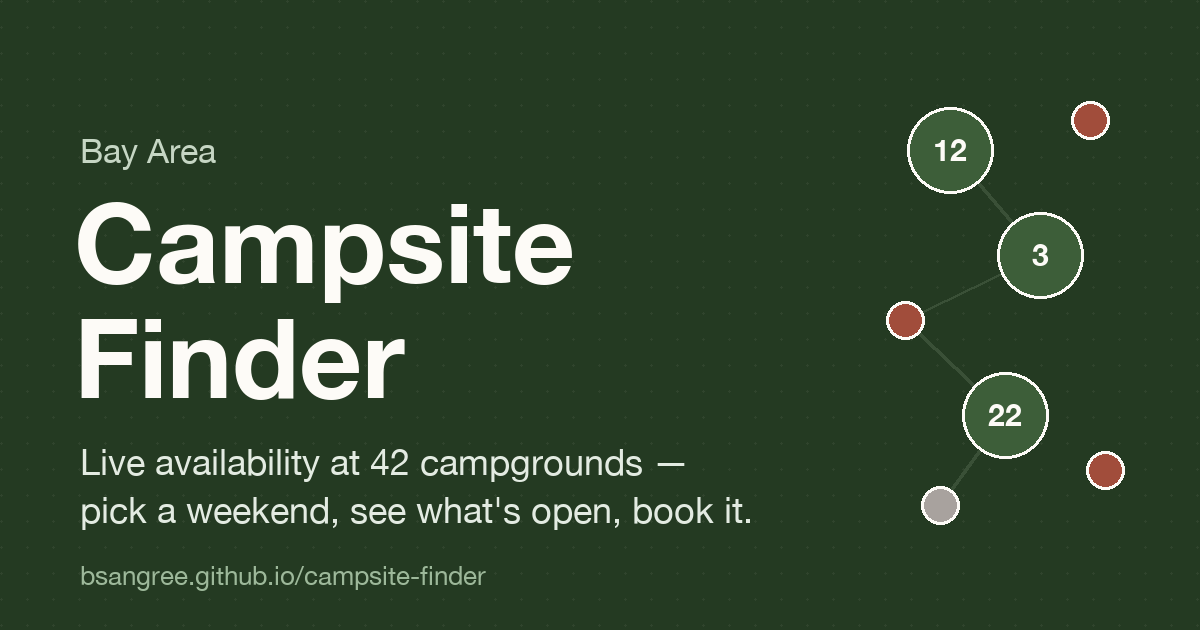
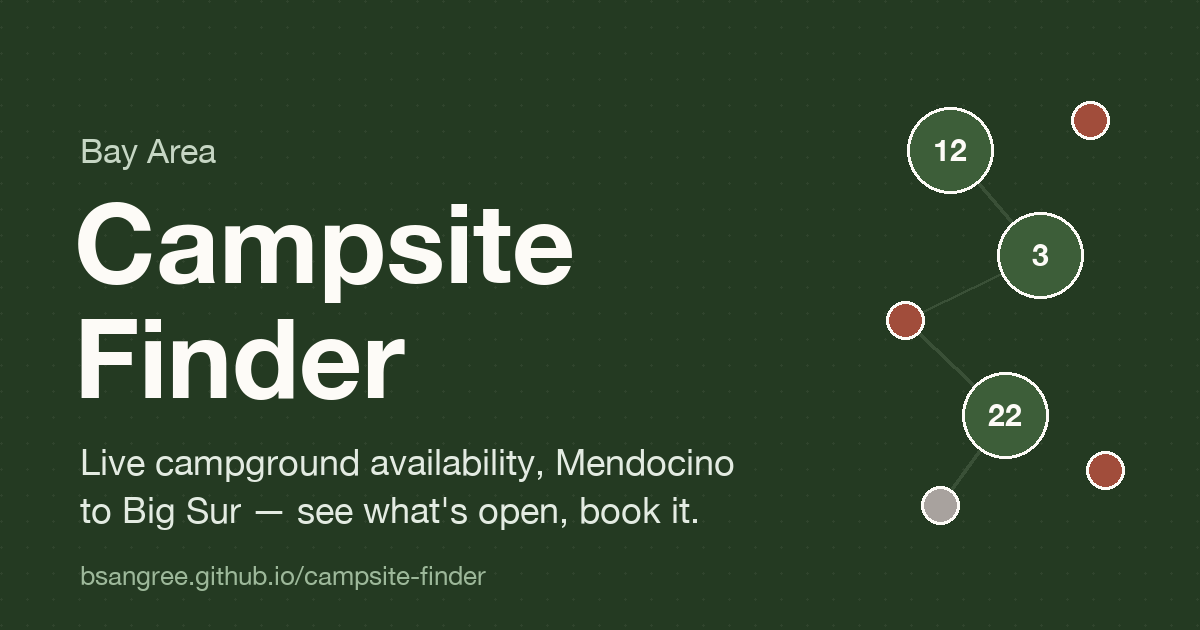
Add 5 campgrounds (Uvas Canyon, Hendy Woods, Van Damme, Russian Gulch, MacKerricher) + weather in map popups
- 47 parks total, 38 with live availability
- Popups show arrival-day forecast via Open-Meteo (free, CORS-open, no key):
  'Partly sunny · 72°/54° · 30% rain', lazy-fetched on popup open, cached
- Recorder updated in the same commit this time (34→38 tracked)
- Evergreen social card + copy (no baked-in park count)

Changed region(s): [[0.0617, 0.6937, 0.6167, 0.8444]]

diff --git a/index.html b/index.html
@@ -4,9 +4,9 @@
   <meta charset="utf-8" />
   <meta name="viewport" content="width=device-width, initial-scale=1" />
   <title>Bay Area Campsite Finder</title>
-  <meta name="description" content="Live availability at 42 campgrounds around the Bay Area and Big Sur — pick a weekend, see what's open, book it." />
+  <meta name="description" content="Live availability at 45+ campgrounds from Mendocino to Big Sur — pick a weekend, see what's open, book it." />
   <meta property="og:title" content="Bay Area Campsite Finder" />
-  <meta property="og:description" content="Live availability at 42 campgrounds around the Bay Area and Big Sur — pick a weekend, see what's open, book it." />
+  <meta property="og:description" content="Live availability at 45+ campgrounds from Mendocino to Big Sur — pick a weekend, see what's open, book it." />
   <meta property="og:image" content="https://bsangree.github.io/campsite-finder/social-card.png" />
   <meta property="og:url" content="https://bsangree.github.io/campsite-finder/" />
   <meta property="og:type" content="website" />
@@ -50,7 +50,7 @@
       <div>
         <div class="text-forest-200 text-[13px] mb-0.5">Bay Area</div>
         <h1 class="text-3xl sm:text-5xl font-semibold tracking-tight">Campsite Finder</h1>
-        <p class="hidden sm:block text-forest-100 mt-2 max-w-xl">Live availability across 30+ campgrounds — state parks, national parks, GGNRA. Pick a weekend, see what's open, book it.</p>
+        <p class="hidden sm:block text-forest-100 mt-2 max-w-xl">Live availability across 45+ campgrounds, Mendocino to Big Sur. Pick a weekend, see what's open, book it.</p>
       </div>
       <div id="headerStats" class="text-right shrink-0"></div>
     </div>
@@ -115,7 +115,7 @@
             <option value="60">≤ 1 hr</option>
             <option value="90">≤ 1.5 hr</option>
             <option value="120">≤ 2 hr</option>
-            <option value="200">≤ 3.5 hr (Big Sur)</option>
+            <option value="200">≤ 3.5 hr (Big Sur, Mendocino)</option>
           </select>
         </div>
 
@@ -373,6 +373,12 @@ const PARKS = [
     url: "https://parks.santaclaracounty.gov/locations/joseph-d-grant-county-park",
     lat: 37.341, lng: -121.716 },
 
+  { id: "uvas-canyon", name: "Uvas Canyon", system: "scc_parks",
+    drive: 80, env: ["redwoods", "oak_woodland"], dogs: true, rv: false, access: "drive_in", sites: 25,
+    desc: "Waterfall-loop canyon above Morgan Hill — best Dec–May when the falls run. Small and shady.",
+    url: "https://parks.santaclaracounty.gov/locations/uvas-canyon-county-park",
+    lat: 37.0841, lng: -121.793 },
+
   { id: "henry-coe", name: "Henry W. Coe SP", system: "reserve_ca",
     drive: 90, env: ["oak_woodland", "grassland", "chaparral"], dogs: false, rv: false, access: "drive_in", sites: 20,
     desc: "Vast wilderness park; HQ drive-in + endless backcountry.",
@@ -447,6 +453,31 @@ const PARKS = [
     desc: "Surprising redwood pocket in Napa Valley. Pool in summer.",
     url: "https://www.reservecalifornia.com/park/620",
     lat: 38.5532, lng: -122.5257 },
+
+  // --- Anderson Valley / Mendocino coast ---
+  { id: "hendy-woods", name: "Hendy Woods SP", system: "reserve_ca",
+    drive: 140, env: ["redwoods"], dogs: true, rv: true, access: "drive_in", sites: 92,
+    desc: "Old-growth redwood groves on the Navarro River — Anderson Valley wine country's secret camp.",
+    url: "https://www.reservecalifornia.com/park/654",
+    lat: 39.0849, lng: -123.485 },
+
+  { id: "van-damme", name: "Van Damme SP", system: "reserve_ca",
+    drive: 185, env: ["coast", "redwoods"], dogs: true, rv: true, access: "drive_in", sites: 74,
+    desc: "Fern Canyon trail, a pygmy forest, and a sheltered cove just south of Mendocino village.",
+    url: "https://www.reservecalifornia.com/park/731",
+    lat: 39.2764, lng: -123.7733 },
+
+  { id: "russian-gulch", name: "Russian Gulch SP", system: "reserve_ca",
+    drive: 190, env: ["coast", "redwoods"], dogs: true, rv: true, access: "drive_in", sites: 26,
+    desc: "Fern-canyon redwoods meeting a rocky cove — waterfall hike + the Devil's Punchbowl blowhole.",
+    url: "https://www.reservecalifornia.com/park/701",
+    lat: 39.3307, lng: -123.8058 },
+
+  { id: "mackerricher", name: "MacKerricher SP", system: "reserve_ca",
+    drive: 200, env: ["coast", "lake"], dogs: true, rv: true, access: "drive_in", sites: 107,
+    desc: "Nine miles of beach, tidepools, a harbor-seal haul-out, and Lake Cleone. North of Fort Bragg.",
+    url: "https://www.reservecalifornia.com/park/668",
+    lat: 39.489, lng: -123.79 },
 
   // --- Sonoma Coast ---
   { id: "bodega-dunes", name: "Bodega Dunes (Sonoma Coast SP)", system: "reserve_ca",
@@ -679,10 +710,53 @@ function popupHtml(park, startISO, nights) {
   return `<div style="min-width:180px">
     <div style="font-weight:600;font-size:15px">${park.name}</div>
     <div style="color:#78716c;font-size:12px;margin:2px 0 6px">${fmtDrive(park.drive)} from SF · ${park.sites} sites</div>
-    <div style="font-size:13px;margin-bottom:8px">${stTxt}</div>
+    <div style="font-size:13px;margin-bottom:4px">${stTxt}</div>
+    <div data-weather="${park.id}" style="color:#78716c;font-size:12px;margin-bottom:8px"></div>
     <a href="${buildBookingUrl(park, startISO, nights)}" target="_blank" rel="noopener"
        style="color:#2f4a2c;font-weight:600;font-size:13px">${hasLiveApi(park) ? 'Book' : 'Check'} ↗</a>
   </div>`;
+}
+
+// Arrival-day forecast in popups — Open-Meteo (free, CORS-open, no key; 16-day horizon)
+const weatherCache = {};
+function wmoText(code) {
+  if (code === 0) return 'Clear';
+  if (code <= 2) return 'Partly sunny';
+  if (code === 3) return 'Overcast';
+  if (code === 45 || code === 48) return 'Foggy';
+  if (code <= 57) return 'Drizzle';
+  if (code <= 67) return 'Rain';
+  if (code <= 77) return 'Snow';
+  if (code <= 82) return 'Showers';
+  if (code >= 95) return 'Thunderstorms';
+  return '';
+}
+async function fillWeather(park) {
+  const el = document.querySelector(`[data-weather="${park.id}"]`);
+  if (!el) return;
+  const startISO = document.getElementById('startDate').value;
+  const key = park.id + '|' + startISO;
+  try {
+    if (!(key in weatherCache)) {
+      const today = fmtISO(new Date()), horizon = fmtISO(addDays(new Date(), 15));
+      if (startISO < today || startISO > horizon) {
+        weatherCache[key] = null;
+      } else {
+        const r = await fetch(`https://api.open-meteo.com/v1/forecast?latitude=${park.lat}&longitude=${park.lng}` +
+          `&daily=weather_code,temperature_2m_max,temperature_2m_min,precipitation_probability_max` +
+          `&temperature_unit=fahrenheit&timezone=America%2FLos_Angeles&start_date=${startISO}&end_date=${startISO}`);
+        const dd = (await r.json()).daily;
+        weatherCache[key] = dd?.time?.length ? {
+          code: dd.weather_code[0], hi: Math.round(dd.temperature_2m_max[0]),
+          lo: Math.round(dd.temperature_2m_min[0]), rain: dd.precipitation_probability_max[0] ?? 0,
+        } : null;
+      }
+    }
+    const w = weatherCache[key];
+    el.textContent = w
+      ? `${wmoText(w.code)} · ${w.hi}° / ${w.lo}°${w.rain >= 20 ? ` · ${w.rain}% rain` : ''}`
+      : 'Forecast opens 16 days out';
+  } catch { el.textContent = ''; }
 }
 
 function renderMap() {
@@ -702,6 +776,7 @@ function renderMap() {
   for (const p of filtered) {
     const m = L.marker([p.lat, p.lng], { icon: markerIcon(getStatus(p)), title: p.name }).addTo(map);
     m.bindPopup(popupHtml(p, startISO, nights));
+    m.on('popupopen', () => fillWeather(p));
     markerById[p.id] = m;
   }
   document.getElementById('resultCount').textContent = `${filtered.length} campgrounds on map`;

diff --git a/scripts/poll.py b/scripts/poll.py
@@ -22,6 +22,8 @@ PARKS = [
     ("brannan-island", "rc", 621),
     ("pfeiffer-big-sur", "rc", 690), ("andrew-molera", "rc", 1077),
     ("julia-pfeiffer", "rc", 661), ("limekiln", "rc", 666),
+    ("hendy-woods", "rc", 654), ("van-damme", "rc", 731),
+    ("russian-gulch", "rc", 701), ("mackerricher", "rc", 668),
     ("kirby-cove", "rg", 232491), ("bicentennial", "rg", 272229), ("hawk-camp", "rg", 258815),
     ("haypress", "rg", 10067346), ("point-reyes", "rg", 233359), ("pinnacles", "rg", 234015),
     ("kirk-creek", "rg", 233116), ("plaskett-creek", "rg", 231959),

diff --git a/CLAUDE.md b/CLAUDE.md
@@ -10,7 +10,11 @@ explain things plainly, keep everything as simple as possible, never over-engine
 ## Architecture (deliberate choices — don't "upgrade" without asking)
 
 - **One file: `index.html`.** No framework, no build, no backend, no database.
-  Park data is the `PARKS` array inside the file (~42 campgrounds).
+  Park data is the `PARKS` array inside the file (47 campgrounds as of 2026-08-01).
+  ⚠ When adding a park with live availability, ALSO add it to `scripts/poll.py`
+  so the recorder tracks it — this has drifted before.
+- Map popups show an arrival-day forecast from Open-Meteo (free, CORS-open, no key,
+  16-day horizon) — fetched lazily on popup open, cached per park+date.
 - Tailwind via CDN; Leaflet 1.9.4 via unpkg + free Esri World Topo tiles (map view).
 - Ben's machine has **no Node.js** — that's why this is not a Next.js app. Keep it that way.
 - Three views, toggled top-right: **List / Map / Scan 8 weekends** (grid of parks × 8 Fridays).

diff --git a/README.md b/README.md
@@ -5,7 +5,7 @@
 ![Bay Area Campsite Finder](social-card.png)
 
 One page that answers "where can I camp this weekend?" — live availability across
-42 campgrounds from Sonoma to Big Sur, in the one place the official sites don't
+45+ campgrounds from Mendocino to Big Sur, in the one place the official sites don't
 offer: side by side.
 
 - **List view** — every campground with a live open-site count for your dates
